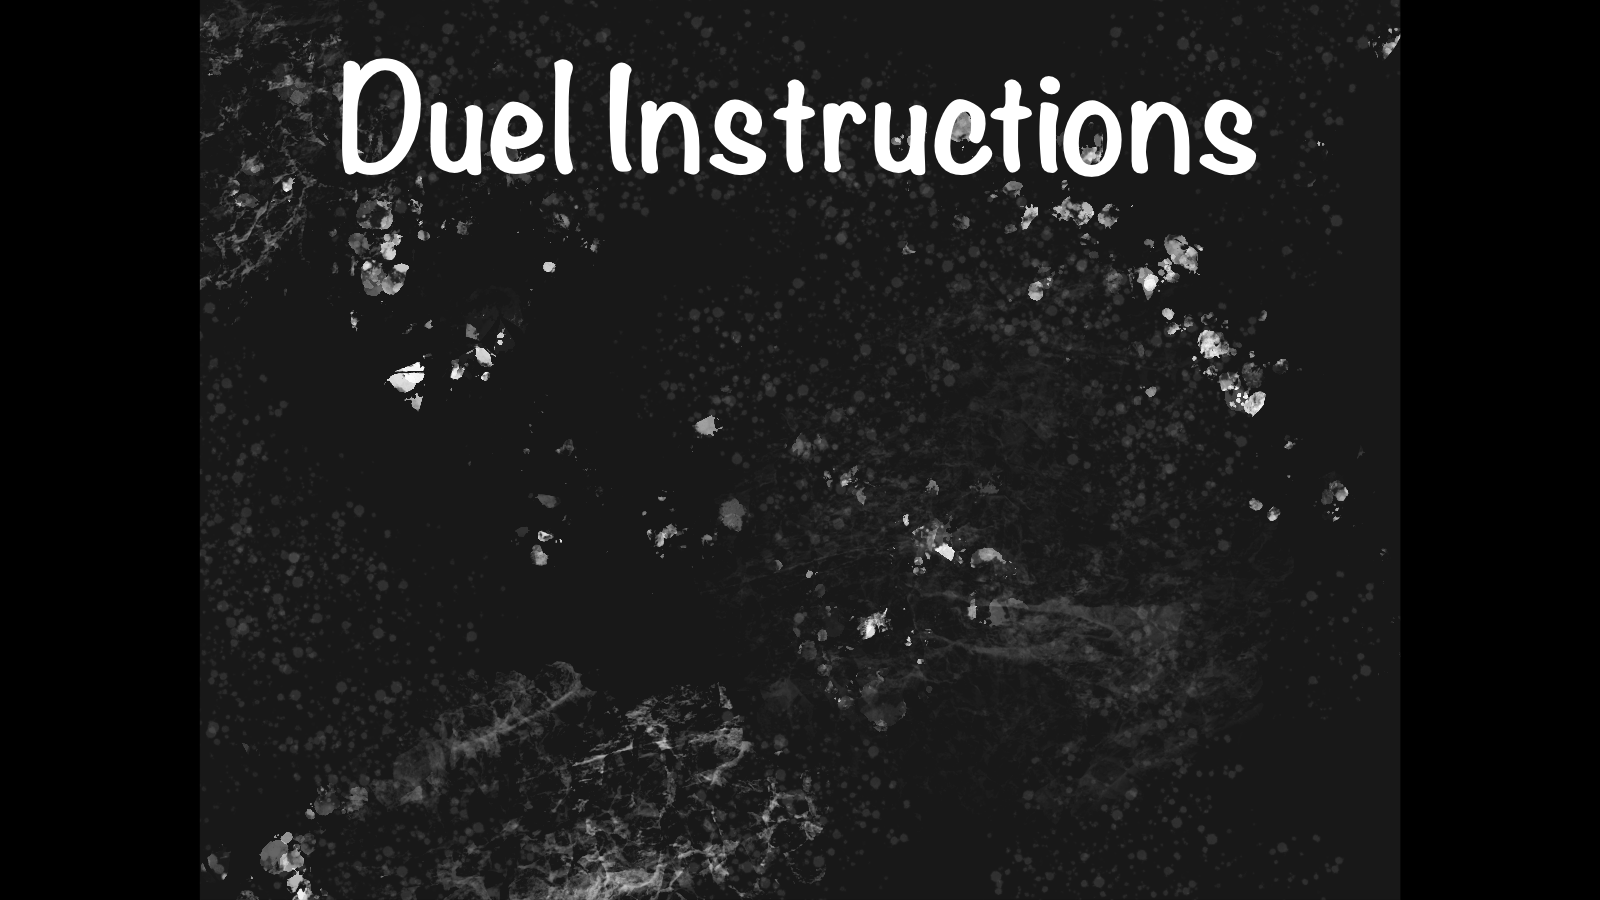
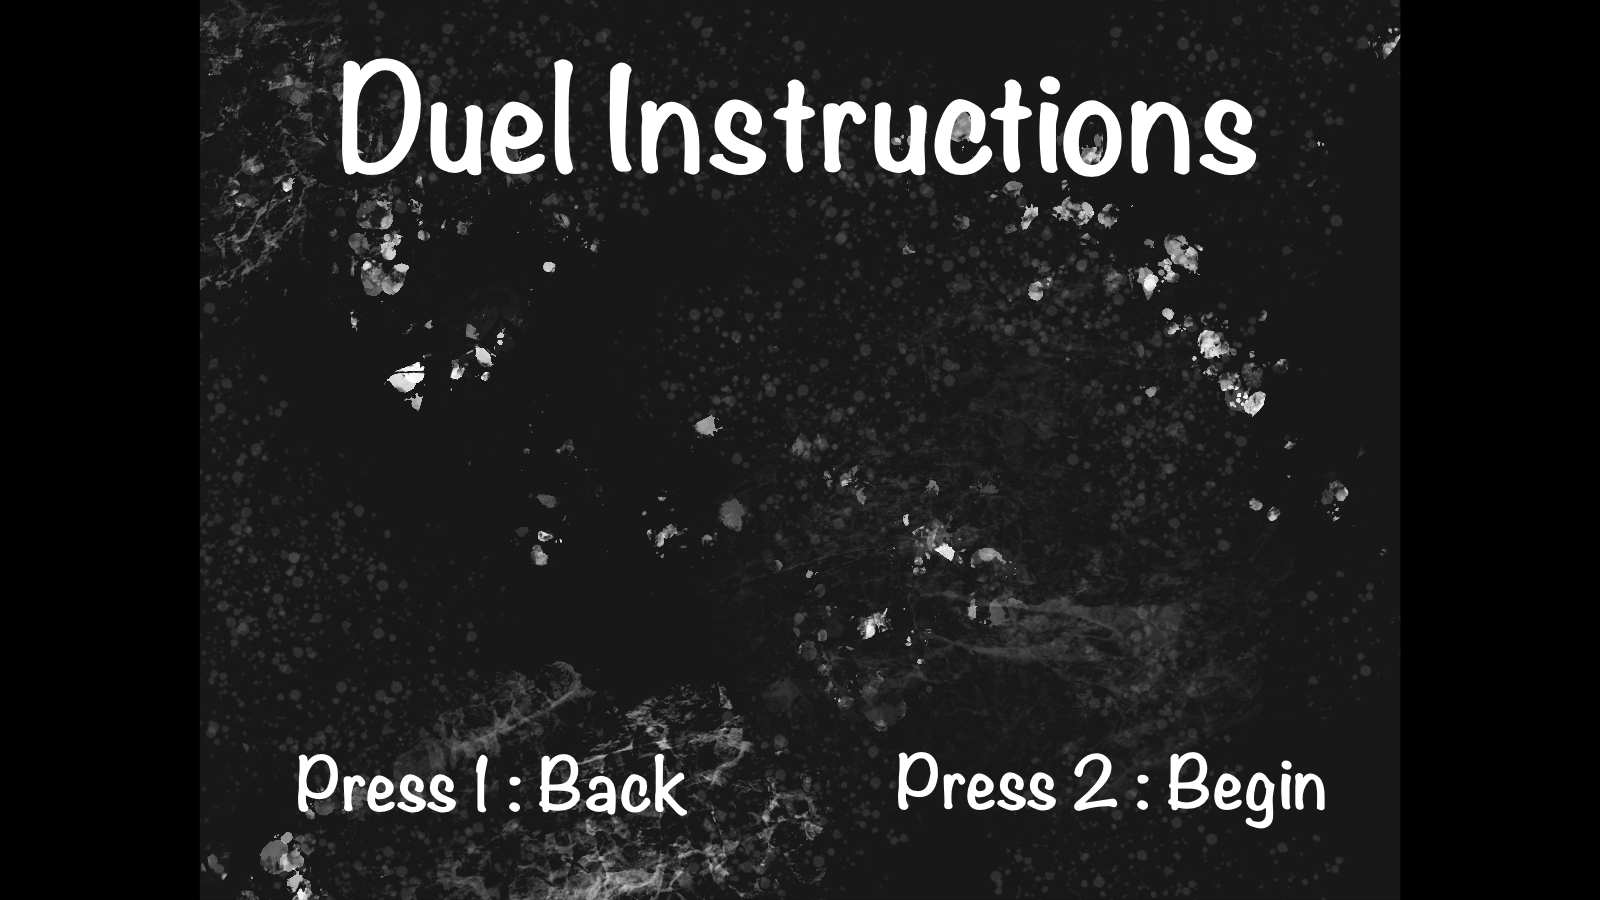
new screens
Added new temporary tutorial screens

Changed region(s): [[0.5625, 0.84, 0.8438, 0.9333], [0.1875, 0.84, 0.4375, 0.9022]]

diff --git a/src/scenes/Tutorial1.js b/src/scenes/Tutorial1.js
@@ -1,0 +1,32 @@
+class Credits extends Phaser.Scene {
+    constructor() {
+        super('tutorial1Scene');
+    }
+
+    create() {
+        // add tutorial 1 screen text
+        this.tutorial1 = this.add.tileSprite(0, 0, 0, 0, 'DuelTutorial').setOrigin(0, 0);
+        
+        cursors = this.input.keyboard.createCursorKeys();  
+    }
+
+    update() {
+        // check for UP input
+        this.input.keyboard.on('keydown', (event) => {
+            //console.log(event);
+            switch(event.key) {
+                case '1':
+                    this.scene.start('titleScene');
+                    break;
+                case '2':
+                    this.scene.start('playScene');
+                    break;
+            }
+        });
+        if (Phaser.Input.Keyboard.JustDown(cursors.left)) {
+            this.sound.play('StartGameSFX');
+            this.scene.stop('creditsScene');
+            this.scene.start('titleScene');
+        }
+    }
+}

diff --git a/src/scenes/Load.js b/src/scenes/Load.js
@@ -17,8 +17,17 @@ class Load extends Phaser.Scene {
         });
 
         this.load.path = './assets/';
-        // load graphics assets
+        // load graphics assets :
+        // Sprites :
         this.load.image('Player', 'img/MainCharacter.png');
+
+        // Screens :
+        this.load.image('Menu', 'img/MainMenu.png');
+        this.load.image('Credits', 'img/Credits.png');
+        this.load.image('DuelTutorial', 'img/DuelInstructions.png');
+        this.load.image('Scene2Tutorial', 'img/Scene2Instructions.png');
+        this.load.image('Scene3Tutorial', 'img/Scene3Instructions.png');
+        
         //this.load.spritesheet('walk', 'img/walkAnimation.png', {frameWidth: 64, frameHeight: 64, startFrame: 0, endFrame: 6});
         // load audio assets
         //this.load.audio('BackMusic', ['audio/NocturneOP27NO2.wav']);

diff --git a/src/scenes/Title.js b/src/scenes/Title.js
@@ -15,6 +15,23 @@ class Title extends Phaser.Scene {
 
     update() {
         // check for UP input
+        this.input.keyboard.on('keydown', (event) => {
+            //console.log(event);
+            switch(event.key) {
+                case '1':
+                    this.scene.start('velocityScene');
+                    break;
+                case '2':
+                    this.scene.start('accelerationScene');
+                    break;
+                case '3':
+                    this.scene.start('fixedJumpScene');
+                    break;
+                case '4':
+                    this.scene.start('variableJumpScene');
+                    break;
+            }
+        });
         if (Phaser.Input.Keyboard.JustDown(cursors.up)) {
             // start next scene
             this.sound.play('StartGameSFX');

diff --git a/index.html b/index.html
@@ -8,6 +8,9 @@
     <script type="text/javascript" src="./src/scenes/Load.js"></script>
     <script type="text/javascript" src="./src/scenes/Title.js"></script>
     <script type="text/javascript" src="./src/scenes/Credits.js"></script>
+    <script type="text/javascript" src="./src/scenes/Tutorial1.js"></script>
+    <script type="text/javascript" src="./src/scenes/Tutorial2.js"></script>
+    <script type="text/javascript" src="./src/scenes/Tutorial3.js"></script>
     <script type="text/javascript" src="./src/scenes/Play.js"></script>
     <script type="text/javascript" src="./src/scenes/GameOver.js"></script>
     <script type="text/javascript" src="./src/prefabs/Barrier.js"></script>

diff --git a/src/main.js b/src/main.js
@@ -38,7 +38,7 @@ let config = {
             }
         }
     },
-    scene: [ Load, Play, GameOver, Credits, Title ]
+    scene: [ Load, Tutorial1, Tutorial2, Tutorial3, Play, GameOver, Credits, Title ]
 }
 
 // uncomment the following line if you need to purge local storage data
